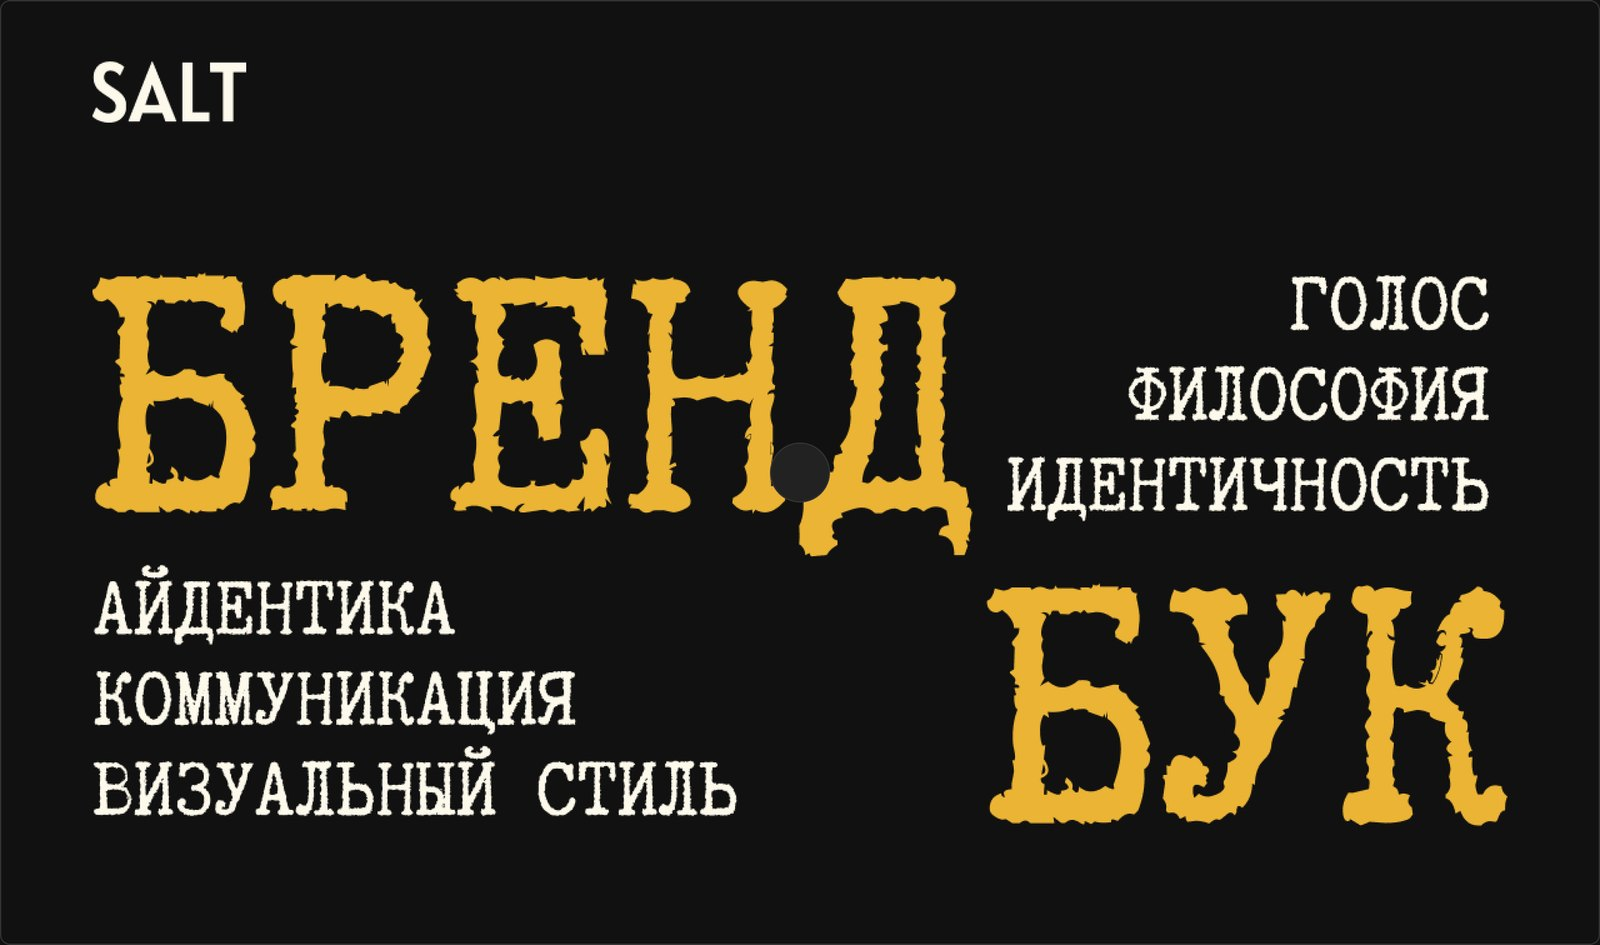
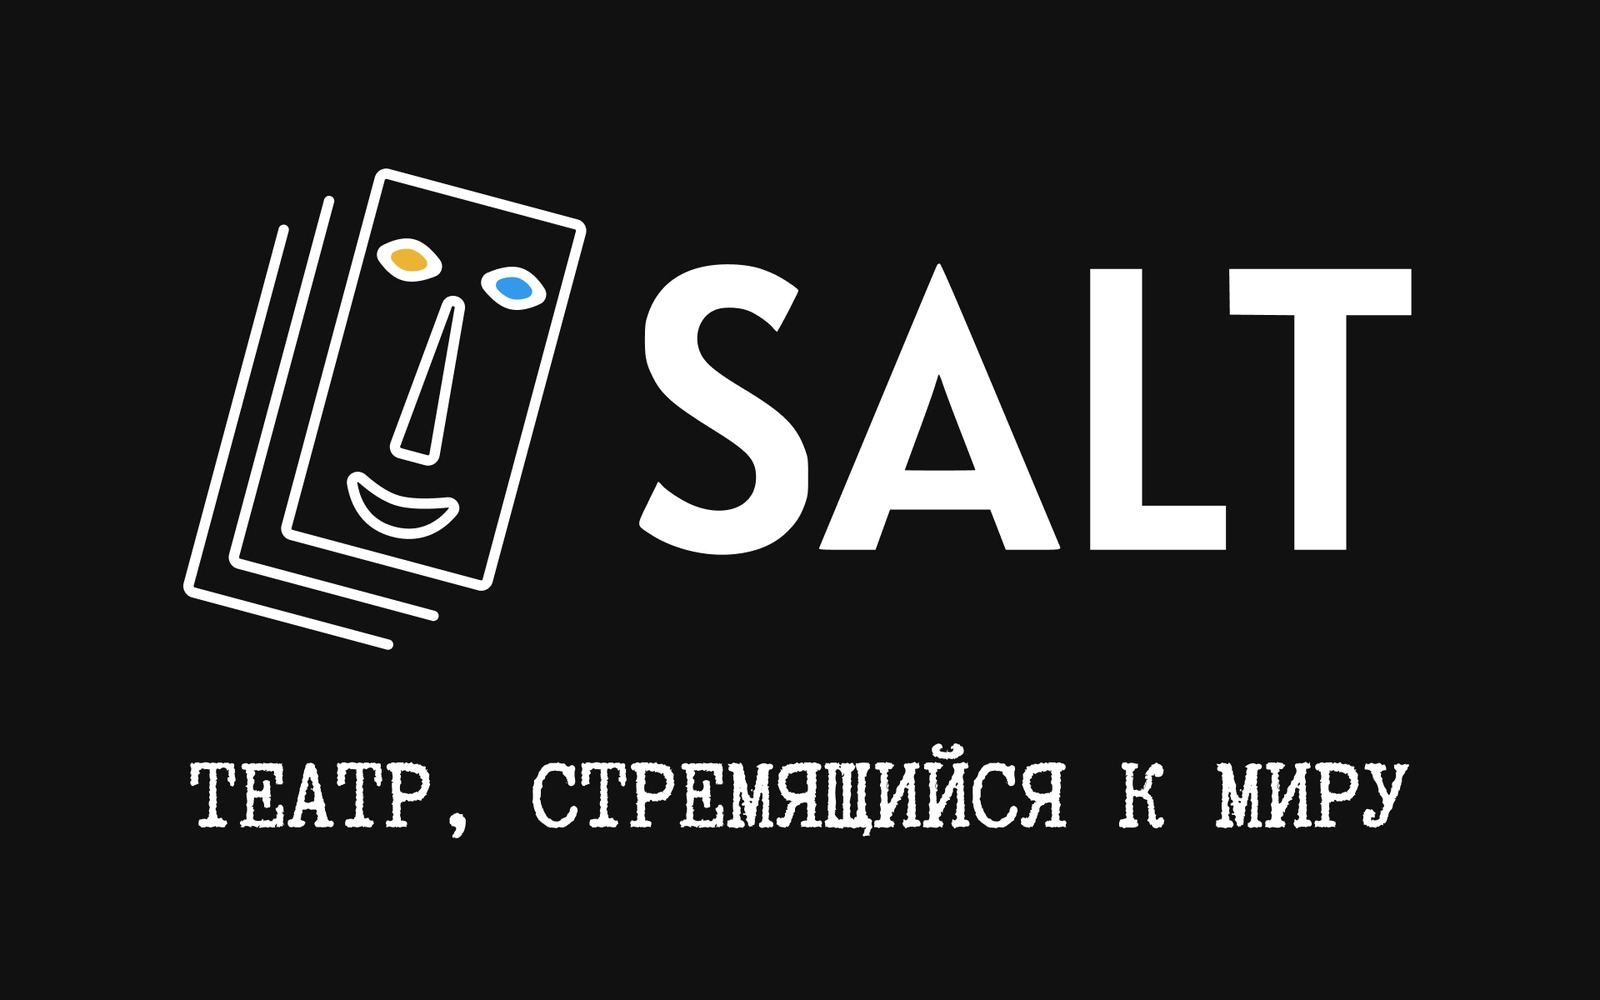
Salt: новая главная картинка кейса — знак, логотип и слоган на чёрном

Changed region(s): [[0.0625, 0.1534, 0.9375, 0.6751], [0.0625, 0.6138, 0.9688, 0.8899], [0.0625, 0.0614, 0.1562, 0.1534]]

diff --git a/assets/data.js b/assets/data.js
@@ -300,4 +300,4 @@ window.MV = {
   ]
 };
 
-window.MV.dims = {"fas-01.jpg":[1600,1131],"fas-02.jpg":[1600,1067],"fas-03.jpg":[1600,1066],"fas-04.jpg":[1600,566],"fas-05.jpg":[1600,1131],"fas-06.jpg":[1600,1041],"fas-07.jpg":[1600,1131],"fas-08.jpg":[1600,1131],"fas-09.jpg":[1600,1131],"fas-cover.jpg":[1024,798],"kp-01.jpg":[609,374],"kp-02.jpg":[1600,900],"kp-04a.jpg":[939,528],"kp-04b.jpg":[938,528],"kp-05a.jpg":[939,528],"kp-05b.jpg":[938,528],"kp-06a.jpg":[939,528],"kp-06b.jpg":[938,528],"kp-07a.jpg":[939,528],"kp-07b.jpg":[938,528],"kp-08.jpg":[1600,900],"kp-09a.jpg":[939,528],"kp-09b.jpg":[938,528],"kp-cover.jpg":[1536,1024],"me.jpg":[1280,680],"ri-01.jpg":[1440,672],"ri-02.jpg":[1600,494],"ri-03.jpg":[1380,920],"ri-04.jpg":[1380,673],"ri-05.jpg":[1600,1600],"ri-06.jpg":[1600,1600],"ri-07.jpg":[1600,1600],"ri-08.jpg":[1380,845],"ri-09.jpg":[690,322],"ri-10.jpg":[1600,1600],"ri-11.jpg":[1380,360],"ri-cover.jpg":[1379,756],"salt-01.jpg":[1600,945],"salt-02.jpg":[1600,788],"salt-03.jpg":[1600,667],"salt-04.jpg":[1600,507],"salt-05.jpg":[1600,460],"salt-06.jpg":[1600,460],"salt-07.jpg":[1600,460],"salt-08.jpg":[1600,507],"salt-09.jpg":[1600,510],"salt-10.jpg":[1600,1600],"salt-11.jpg":[1600,1600],"salt-12.jpg":[1600,1600],"salt-13.jpg":[1600,1220],"salt-14.jpg":[1600,1600],"salt-15.jpg":[1024,1024],"salt-cover.jpg":[1280,806],"sk-01.jpg":[1600,1132],"sk-02.jpg":[1600,644],"sk-03.jpg":[1600,725],"sk-04.jpg":[1600,1114],"sk-05.jpg":[1024,1024],"sk-06.jpg":[1600,1600],"sk-07.jpg":[1600,1600],"sk-08.jpg":[1600,1600],"sk-09.jpg":[1600,1600],"sk-10.jpg":[1600,820],"sk-11.jpg":[1146,802],"sk-12.jpg":[1600,1600],"sk-cover.jpg":[1024,1024],"tme-01.jpg":[1600,1008],"tme-02.jpg":[1600,1600],"tme-03.jpg":[1000,630],"tme-04.jpg":[1455,858],"tme-05.jpg":[1000,590],"tme-06.jpg":[1000,590],"tme-07.jpg":[1600,816],"tme-08.jpg":[1000,511],"tme-09.jpg":[1000,511],"tme-10.jpg":[1000,593],"tme-cover.jpg":[1000,593]};
+window.MV.dims = {"fas-01.jpg":[1600,1131],"fas-02.jpg":[1600,1067],"fas-03.jpg":[1600,1066],"fas-04.jpg":[1600,566],"fas-05.jpg":[1600,1131],"fas-06.jpg":[1600,1041],"fas-07.jpg":[1600,1131],"fas-08.jpg":[1600,1131],"fas-09.jpg":[1600,1131],"fas-cover.jpg":[1024,798],"kp-01.jpg":[609,374],"kp-02.jpg":[1600,900],"kp-04a.jpg":[939,528],"kp-04b.jpg":[938,528],"kp-05a.jpg":[939,528],"kp-05b.jpg":[938,528],"kp-06a.jpg":[939,528],"kp-06b.jpg":[938,528],"kp-07a.jpg":[939,528],"kp-07b.jpg":[938,528],"kp-08.jpg":[1600,900],"kp-09a.jpg":[939,528],"kp-09b.jpg":[938,528],"kp-cover.jpg":[1536,1024],"me.jpg":[1280,680],"ri-01.jpg":[1440,672],"ri-02.jpg":[1600,494],"ri-03.jpg":[1380,920],"ri-04.jpg":[1380,673],"ri-05.jpg":[1600,1600],"ri-06.jpg":[1600,1600],"ri-07.jpg":[1600,1600],"ri-08.jpg":[1380,845],"ri-09.jpg":[690,322],"ri-10.jpg":[1600,1600],"ri-11.jpg":[1380,360],"ri-cover.jpg":[1379,756],"salt-01.jpg":[1600,1000],"salt-02.jpg":[1600,788],"salt-03.jpg":[1600,667],"salt-04.jpg":[1600,507],"salt-05.jpg":[1600,460],"salt-06.jpg":[1600,460],"salt-07.jpg":[1600,460],"salt-08.jpg":[1600,507],"salt-09.jpg":[1600,510],"salt-10.jpg":[1600,1600],"salt-11.jpg":[1600,1600],"salt-12.jpg":[1600,1600],"salt-13.jpg":[1600,1220],"salt-14.jpg":[1600,1600],"salt-15.jpg":[1024,1024],"salt-cover.jpg":[1280,806],"sk-01.jpg":[1600,1132],"sk-02.jpg":[1600,644],"sk-03.jpg":[1600,725],"sk-04.jpg":[1600,1114],"sk-05.jpg":[1024,1024],"sk-06.jpg":[1600,1600],"sk-07.jpg":[1600,1600],"sk-08.jpg":[1600,1600],"sk-09.jpg":[1600,1600],"sk-10.jpg":[1600,820],"sk-11.jpg":[1146,802],"sk-12.jpg":[1600,1600],"sk-cover.jpg":[1024,1024],"tme-01.jpg":[1600,1008],"tme-02.jpg":[1600,1600],"tme-03.jpg":[1000,630],"tme-04.jpg":[1455,858],"tme-05.jpg":[1000,590],"tme-06.jpg":[1000,590],"tme-07.jpg":[1600,816],"tme-08.jpg":[1000,511],"tme-09.jpg":[1000,511],"tme-10.jpg":[1000,593],"tme-cover.jpg":[1000,593]};
